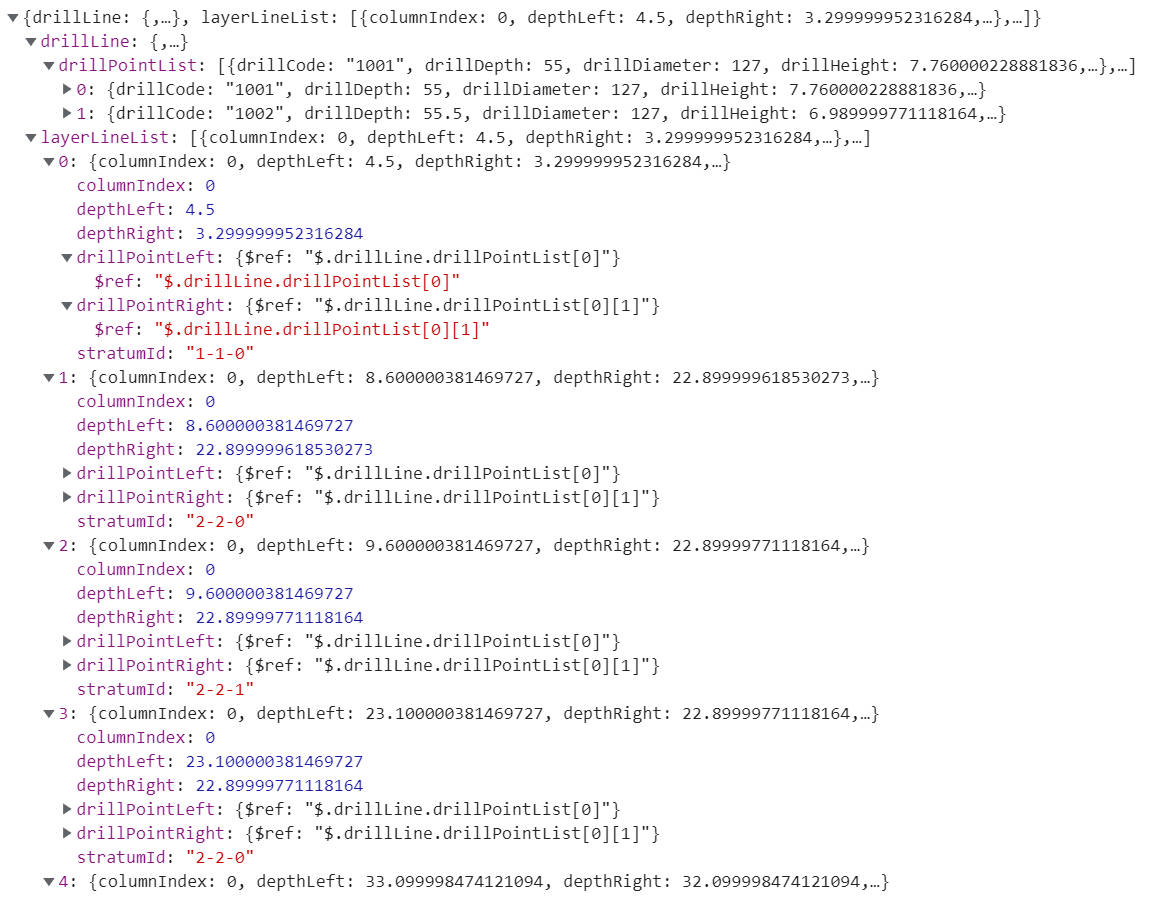
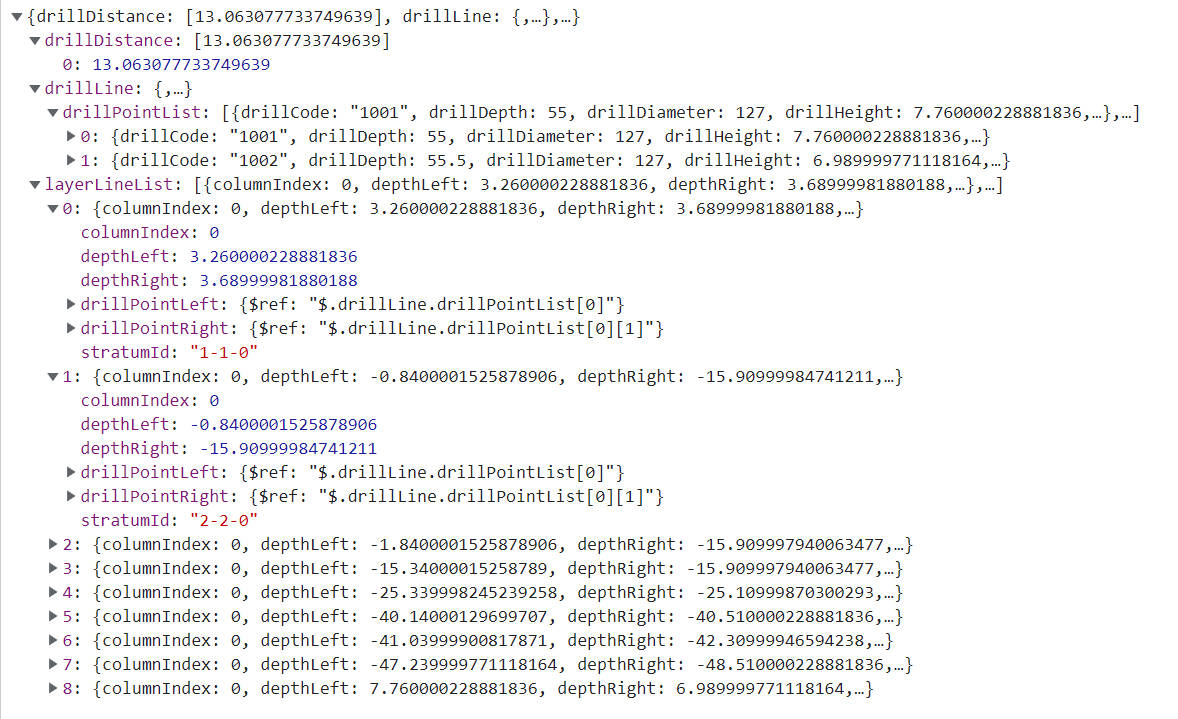
add drillDistance computer

diff --git a/src/main/webapp/fieldtest.html b/src/main/webapp/fieldtest.html
@@ -2,7 +2,7 @@
 <html lang="en">
 <head>
     <meta charset="UTF-8">
-    <title>Title</title>
+    <title>FieldTest</title>
 </head>
 <body>
 
@@ -12,7 +12,7 @@
 <script src="js/axios.js"></script>
 <script>
     // 这里输入模拟JSON数组
-    var json = ["35-1001","35-1002"]
+    var json = ["35-1001","35-1002","35-1003"]
 
     // POST
     axios.post('http://localhost/DrillVisual/FieldTestServlet', json)

diff --git a/src/main/java/com/drillvisual/service/Connector.java b/src/main/java/com/drillvisual/service/Connector.java
@@ -3,6 +3,7 @@ package com.drillvisual.service;
 import com.drillvisual.pojo.DrillPoint;
 import com.drillvisual.pojo.DrillStratum;
 import com.drillvisual.pojo.LayerLine;
+import sun.plugin.javascript.navig4.Layer;
 
 import java.util.List;
 
@@ -73,19 +74,20 @@ public class Connector {
             case TYPE_UNDEFINE:
                 break;
             case TYPE_CONTINUE:
+                // 钻孔高程 - 钻孔地层深度 = 钻孔地层面绝对坐标
                 layerLine.setStratumId(stratumLeft.getStratumId());
-                layerLine.setDepthLeft(stratumLeft.getBottomDepth());
-                layerLine.setDepthRight(stratumRight.getBottomDepth());
+                layerLine.setDepthLeft(layerLine.getDrillPointLeft().getDrillHeight() - stratumLeft.getBottomDepth());
+                layerLine.setDepthRight(layerLine.getDrillPointRight().getDrillHeight() - stratumRight.getBottomDepth());
                 break;
             case TYPE_PINCH_RIGHT:
                 layerLine.setStratumId(stratumLeft.getStratumId());
-                layerLine.setDepthLeft(stratumLeft.getBottomDepth());
-                layerLine.setDepthRight(stratumRight.getTopDepth());
+                layerLine.setDepthLeft(layerLine.getDrillPointLeft().getDrillHeight() - stratumLeft.getBottomDepth());
+                layerLine.setDepthRight(layerLine.getDrillPointRight().getDrillHeight() - stratumRight.getTopDepth());
                 break;
             case TYPE_PINCH_LEFT:
                 layerLine.setStratumId(stratumRight.getStratumId());
-                layerLine.setDepthLeft(stratumLeft.getTopDepth());
-                layerLine.setDepthRight(stratumRight.getBottomDepth());
+                layerLine.setDepthLeft(layerLine.getDrillPointLeft().getDrillHeight() - stratumLeft.getTopDepth());
+                layerLine.setDepthRight(layerLine.getDrillPointRight().getDrillHeight() - stratumRight.getBottomDepth());
                 break;
         }
         layerLineList.add(layerLine);
@@ -95,7 +97,26 @@ public class Connector {
         // 处理边界连线
         // 将最顶层连接在一起
         for (int i = 0; i < drillPointList.size() - 1; i++) {
-
+            // 设置layerLine基本属性
+            LayerLine layerLine = new LayerLine();
+            layerLine.setColumnIndex(i);
+            layerLine.setDrillPointLeft(drillPointList.get(i));
+            layerLine.setDrillPointRight(drillPointList.get(i + 1));
+            // 获取stratum对象
+            DrillStratum stratumLeft = drillPointList.get(i).getDrillStratumList().get(0);
+            DrillStratum stratumRight = drillPointList.get(i + 1).getDrillStratumList().get(0);
+            // 判断地层年代顺序
+            int type = stratumLeft.getStratumId().compareTo(stratumRight.getStratumId());
+            if (type <= 0) {
+                layerLine.setStratumId(stratumLeft.getStratumId());
+            } else {
+                layerLine.setStratumId(stratumRight.getStratumId());
+            }
+            // 连接顶板高度绝对坐标
+            layerLine.setDepthLeft(layerLine.getDrillPointLeft().getDrillHeight());
+            layerLine.setDepthRight(layerLine.getDrillPointRight().getDrillHeight());
+            // 添加到地层线表
+            layerLineList.add(layerLine);
         }
     }
 

diff --git a/src/main/java/com/drillvisual/service/SectionPloter.java b/src/main/java/com/drillvisual/service/SectionPloter.java
@@ -1,11 +1,23 @@
 package com.drillvisual.service;
 
 import com.drillvisual.pojo.DrillLine;
+import com.drillvisual.pojo.DrillPoint;
 import com.drillvisual.pojo.LayerLine;
 
+import java.util.ArrayList;
 import java.util.List;
 
 public class SectionPloter {
+    public void computeDistance() {
+        drillDistance = new ArrayList<Double>();
+        List<DrillPoint> drillPointList = drillLine.getDrillPointList();
+        for (int i = 0; i < drillPointList.size() - 1; i++) {
+            Double distX = drillPointList.get(i).getDrillX() - drillPointList.get(i + 1).getDrillX();
+            Double distY = drillPointList.get(i).getDrillY() - drillPointList.get(i + 1).getDrillY();
+            drillDistance.add(Math.sqrt(distX * distX + distY * distY));
+        }
+    }
+
     public DrillLine getDrillLine() {
         return drillLine;
     }
@@ -24,4 +36,5 @@ public class SectionPloter {
 
     public DrillLine drillLine;
     public List<LayerLine> layerLineList;
+    public List<Double> drillDistance;
 }

diff --git a/src/main/java/com/drillvisual/web/FieldTestServlet.java b/src/main/java/com/drillvisual/web/FieldTestServlet.java
@@ -47,9 +47,12 @@ public class FieldTestServlet extends HttpServlet {
         String[] drillIds = JSON.parseObject(reqBody, String[].class);
         // 从Generator获取计算结果
         if (drillIds != null) {
-            SectionPloter result = stratumLineGenerator.generate(drillIds);
+            // 获取sectionPloter对象
+            SectionPloter sectionPloter = stratumLineGenerator.generate(drillIds);
+            // 计算横坐标相对距离
+            sectionPloter.computeDistance();
             // 向Response中写入数据
-            res.getWriter().write(JSON.toJSONString(result));
+            res.getWriter().write(JSON.toJSONString(sectionPloter));
         }
     }
 

diff --git a/README.md b/README.md
@@ -15,11 +15,12 @@
 
 ## 输入输出数据流
     1. 前端向后端传送有序的钻孔ID的JSON数组
-    2. 后端返回的JSON字符串中，字段drillLine存储钻孔连线上所有钻孔的属性
-    3. 后端返回的JSON字符串中，字段layerLineList存储弧段数组
-    4. 弧段对象layerLine中，columnIndex为纵坐标，即钻孔序号
-    5. 弧段对象layerLine中，depthLeft和depthRight分别为弧段的起点和终点
-    6. 弧段对象layerLine中，stratumId为地层类型编号
+    2. 后端返回的JSON字符串中，字段drillLine存储钻孔连线上所有钻孔的属性，仅保留用
+    3. 后端返回的JSON字符串中，字段layerLineList存储弧段数组，弧段存在于两个相邻钻孔之间
+    4. 弧段对象layerLine中，columnIndex为横坐标，即钻孔序号
+    5. 弧段对象layerLine中，depthLeft和depthRight分别为弧段的起点和终点纵坐标
+    6. 弧段对象layerLine中，stratumId为地层类型编号，指示该弧段以上到上一条弧段之间的区域的地层类型
+    7. 后端返回的JSON字符串中，字段drillDistance表示相邻两个钻孔之间的距离
 
 ## 后端返回数据如下图：
 ![SectionPloter数据结构](SectionPloter.jpg)
